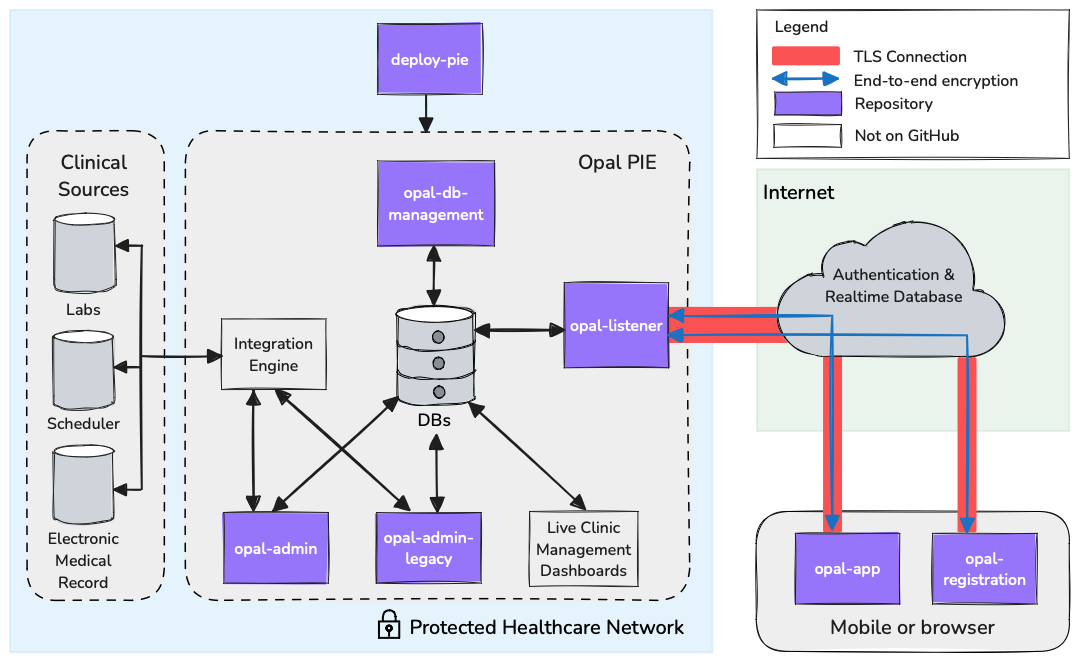
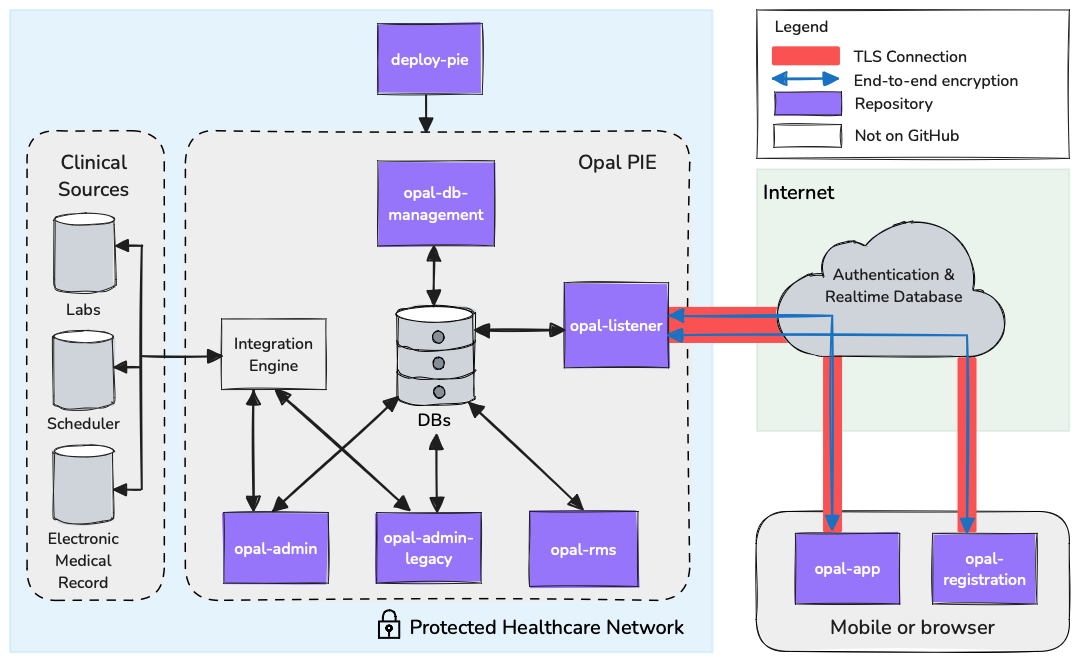
profile: add ORMS component and repository (#46)

Changed region(s): [[0.4893, 0.7251, 0.6117, 0.9063], [0.4893, 0.6949, 0.5199, 0.7251], [0.4588, 0.6647, 0.4893, 0.6949]]

diff --git a/profile/README.md b/profile/README.md
@@ -18,6 +18,8 @@ Feel free to let us know if you spot anything, or maybe even contribute 🙂
 
 ## Quick links
 
+- Opal website: https://www.opalmedapps.com
+- Short brochure that introduces the Opal platform: https://www.opalmedapps.com/en/\_files/ugd/959010_5c87a4238c0e4a1b95a4d63eda7f559f.pdf
 - Documentation on Opal's architecture: https://docs.opalmedapps.com/development/architecture/
 - Setting up your local development environment: https://docs.opalmedapps.com/development/local-dev-setup/
 - Deploying Opal: https://docs.opalmedapps.com/install/
@@ -35,15 +37,13 @@ Currently, this service is provided by Google's [Firebase](https://firebase.goog
 > In the Details section below, repositories of components of the Opal platform are shown in parenthesis.
 > These are also shown in purple in the diagram above.
 > There is no repository for the *Integration Engine* as this is a hospital-specific integration system.
-> The repository for the *Live Clinic Management Dashboards* (virtual waiting room and clinician dashboard) have not yet been added to GitHub.
-> Please check back soon for them.
 
 <details>
 <summary>Details about Opal components</summary>
 
 ### Registration
 
-Users register for an Opal account using a registration code that is generated by healthcare professionals inside the hospital using the OpalADMIN application (`opal-admin` and `opal-admin-legacy`).
+Users register for an Opal account using a registration code that is generated by healthcare professionals inside the hospital using the OpalAdmin application (`opal-admin` and `opal-admin-legacy`).
 On their mobile phone or browser, the user accesses the Opal registration web app (`opal-registration`) from which they securely communicate with the Opal Listener (`opal-listener`) running inside the hospital via *Firebase* (currently *Realtime Database*).
 Once registered, the user is provided with their own personal Opal account using which they can access the patient's hospital data via the Opal App (`opal-app`).
 
@@ -71,9 +71,14 @@ To protect the patient data, the data is also end-to-end-encrypted.
 All requests and responses are encrypted on either side so that data cannot be read within the *Realtime Database*.
 This is to ensure that only the Opal PIE in the hospital and the Opal App can access the unencrypted data.
 
-#### OpalADMIN
+#### OpalAdmin
 
-The OpalADMIN (`opal-admin` and `opal-admin-legacy`) application is used by the clinical and administrative staff to set up the rules for publishing data for patients (which data from the source systems and how the data are presented to the patient, e.g., aliasing of clinical terms and provision of additional explanatory content).
+The OpalAdmin (`opal-admin` and `opal-admin-legacy`) application is used by the clinical and administrative staff to set up the rules for publishing data for patients (which data from the source systems and how the data are presented to the patient, e.g., aliasing of clinical terms and provision of additional explanatory content).
+
+#### Opal Room Management System (ORMS)
+
+*ORMS* provides live clinic management dashboards consisting of a virtual waiting room and clinician dashboard.
+Patients can check-in via a kiosk, via the Opal App or via SMS and get called to their treating room via TV screens, by the Opal App, and/or by SMS message.
 
 </details>
 
@@ -84,11 +89,11 @@ Repositories that begin with "opal" are components of the Opal platform.
 
 - **opal-app:** The patient-facing web and mobile application (referred to as the *Opal Patient Portal*) used by users to access their patient data. [JavaScript, AngularJS, Cordova, Onsen UI].
 
-- **opal-admin:** The staff-facing web application (referred to as *OpalADMIN*) used to create and manage the publishing of data and education materials to patients as well as access management for patients and staff (clinicians and administrative personnel).
-  Note: This repository is Python/Django-based and contains the code base for all new features and functionality to OpalADMIN. [Python, Django]
+- **opal-admin:** The staff-facing web application (referred to as *OpalAdmin*) used to create and manage the publishing of data and education materials to patients as well as access management for patients and staff (clinicians and administrative personnel).
+  Note: This repository is Python/Django-based and contains the code base for all new features and functionality to OpalAdmin. [Python, Django]
 
-- **opal-admin-legacy:** The staff-facing web application (referred to as *OpalADMIN Legacy*) used to create and manage the publishing of data and education materials to patients as well as access management for patients and staff (clinicians and administrative personnel).
-  Note: this repository is PHP and Perl-based and contains the legacy version of OpalADMIN.
+- **opal-admin-legacy:** The staff-facing web application (referred to as *OpalAdmin Legacy*) used to create and manage the publishing of data and education materials to patients as well as access management for patients and staff (clinicians and administrative personnel).
+  Note: this repository is PHP and Perl-based and contains the legacy version of OpalAdmin.
   It is used for maintenance-only development and should not be used to develop any new features or functionality. [PHP, Perl, JavaScript, AngularJS]
 
 - **opal-listener:** The Opal listener application (referred to as the *Opal Listener*) that runs in the background and handles requests from the Opal Patient Portal and the Opal Registration site via Firebase. [Node.js]
@@ -98,8 +103,14 @@ Repositories that begin with "opal" are components of the Opal platform.
 - **opal-db-management:** Opal's database utility used to manage revisions and data for the Opal legacy databases.
   Note: The current Opal database is managed using the Django framework in `opal-admin`. [Alembic, Python, MySQL]
 
+- **opal-rms:** The live clinician dashboards that may be used to manage patients according to set conditions.
+  Includes the Opal Virtual Waiting Room used by clinicians for waiting room management as well as the Clinician Dashboard that can be used for remote monitoring of patients who submit data (from wearables or questionnaires) via Opal.
+  Also provides web interfaces for kiosks and TV screens.
+  Note: This repository is PHP-based and contains what is intended to become the legacy version of ORMS.
+  It should ideally not be used to develop any new features or functionality and will ultimately be migrated to `opal-admin`. [PHP, JavaScript, AngularJS]
+
 - **deploy-pie:** Copier template to deploy the Opal PIE.
-  The Opal PIE is the Opal Patient Information Exchange, consisting of the Opal Listener, OpalADMIN, OpalADMIN Legacy, and all associated databases and scripts.
+  The Opal PIE is the Opal Patient Information Exchange, consisting of the Opal Listener, OpalAdmin, OpalAdmin Legacy, and all associated databases and scripts.
 
 - **docs:** Opal's documentation site written in Markdown. [MkDocs, mkdocs-material]
 
